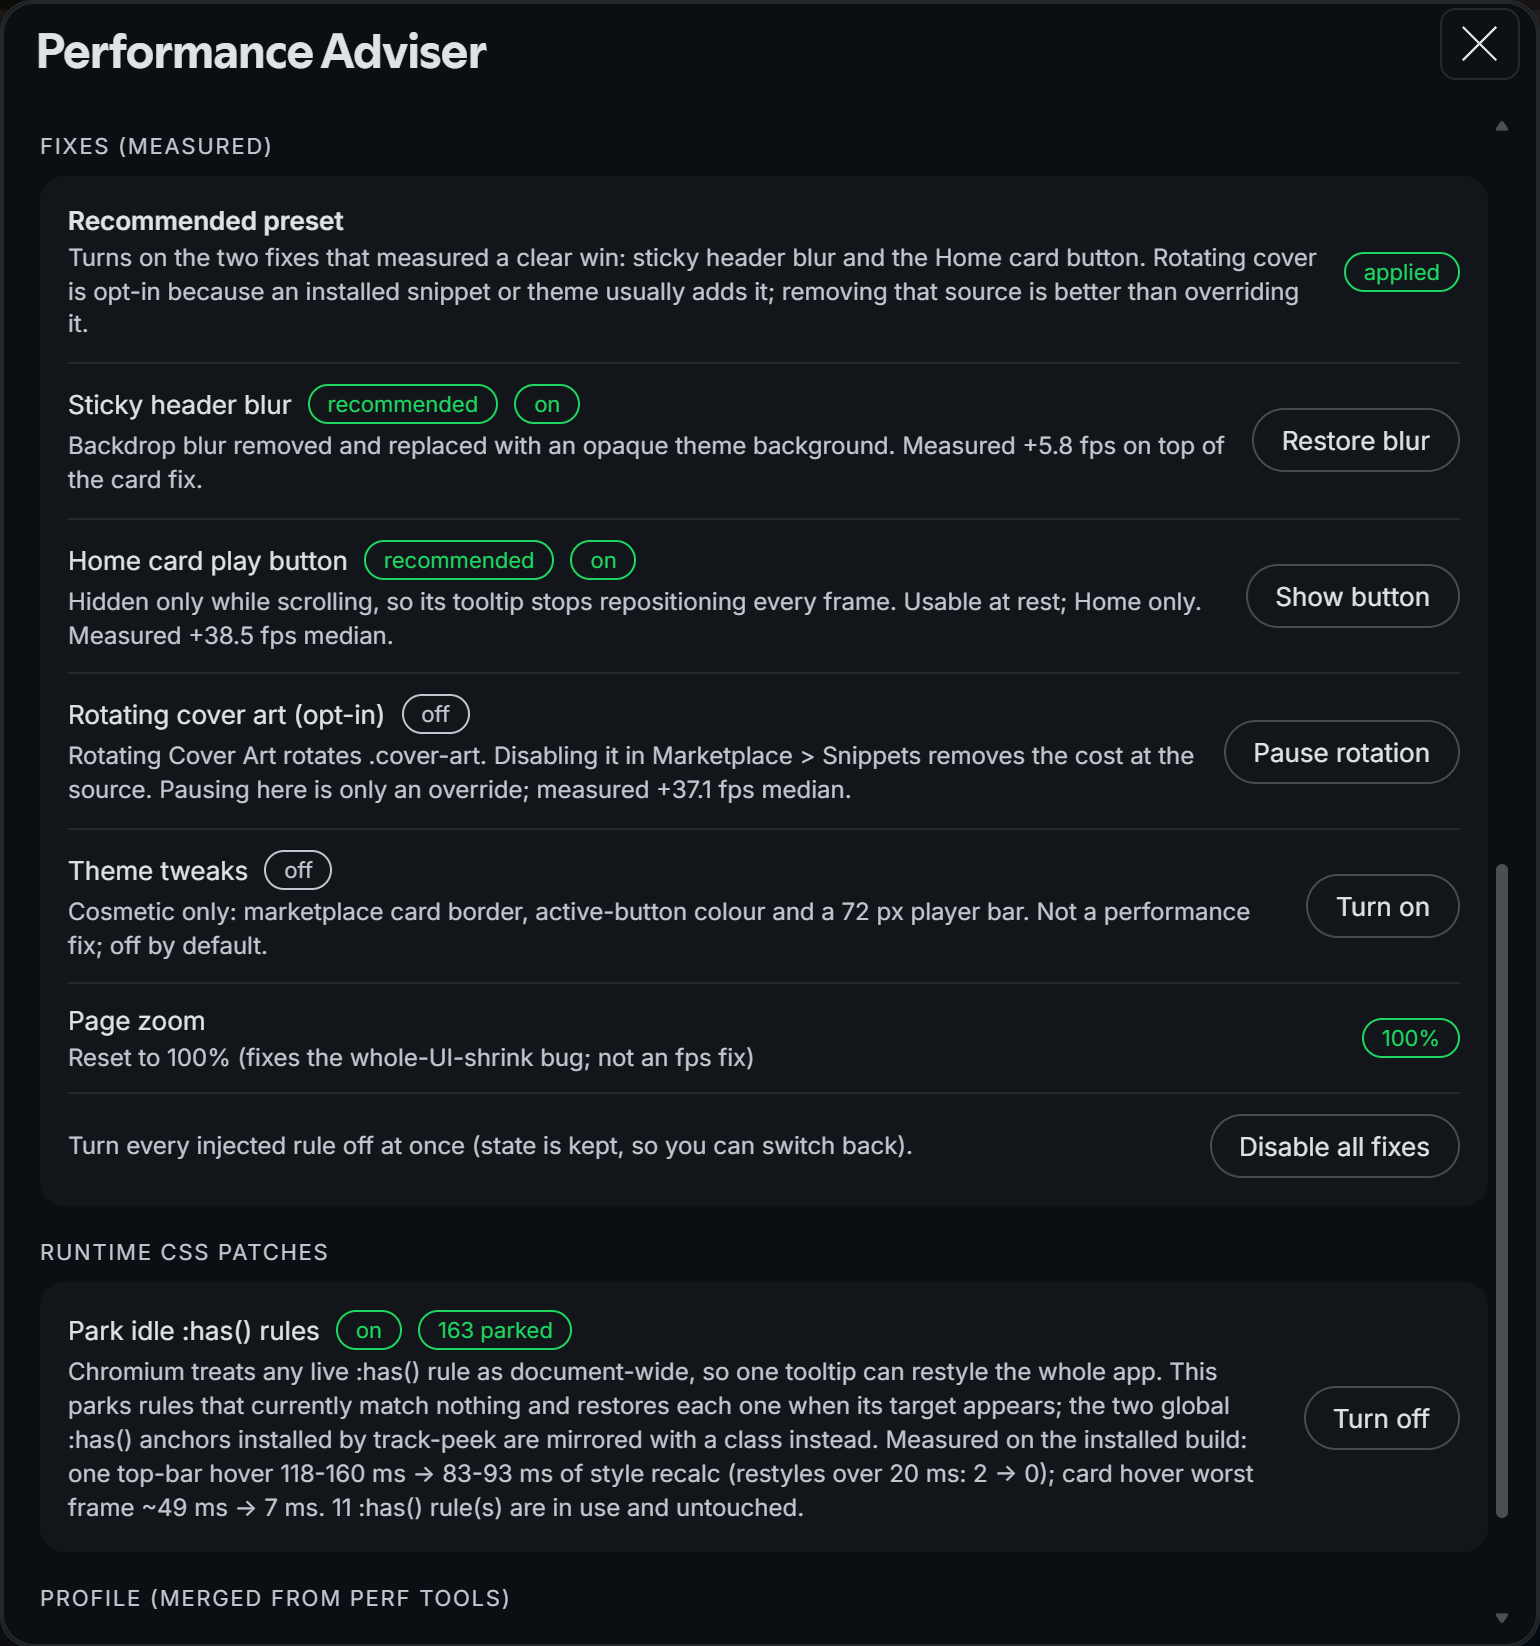
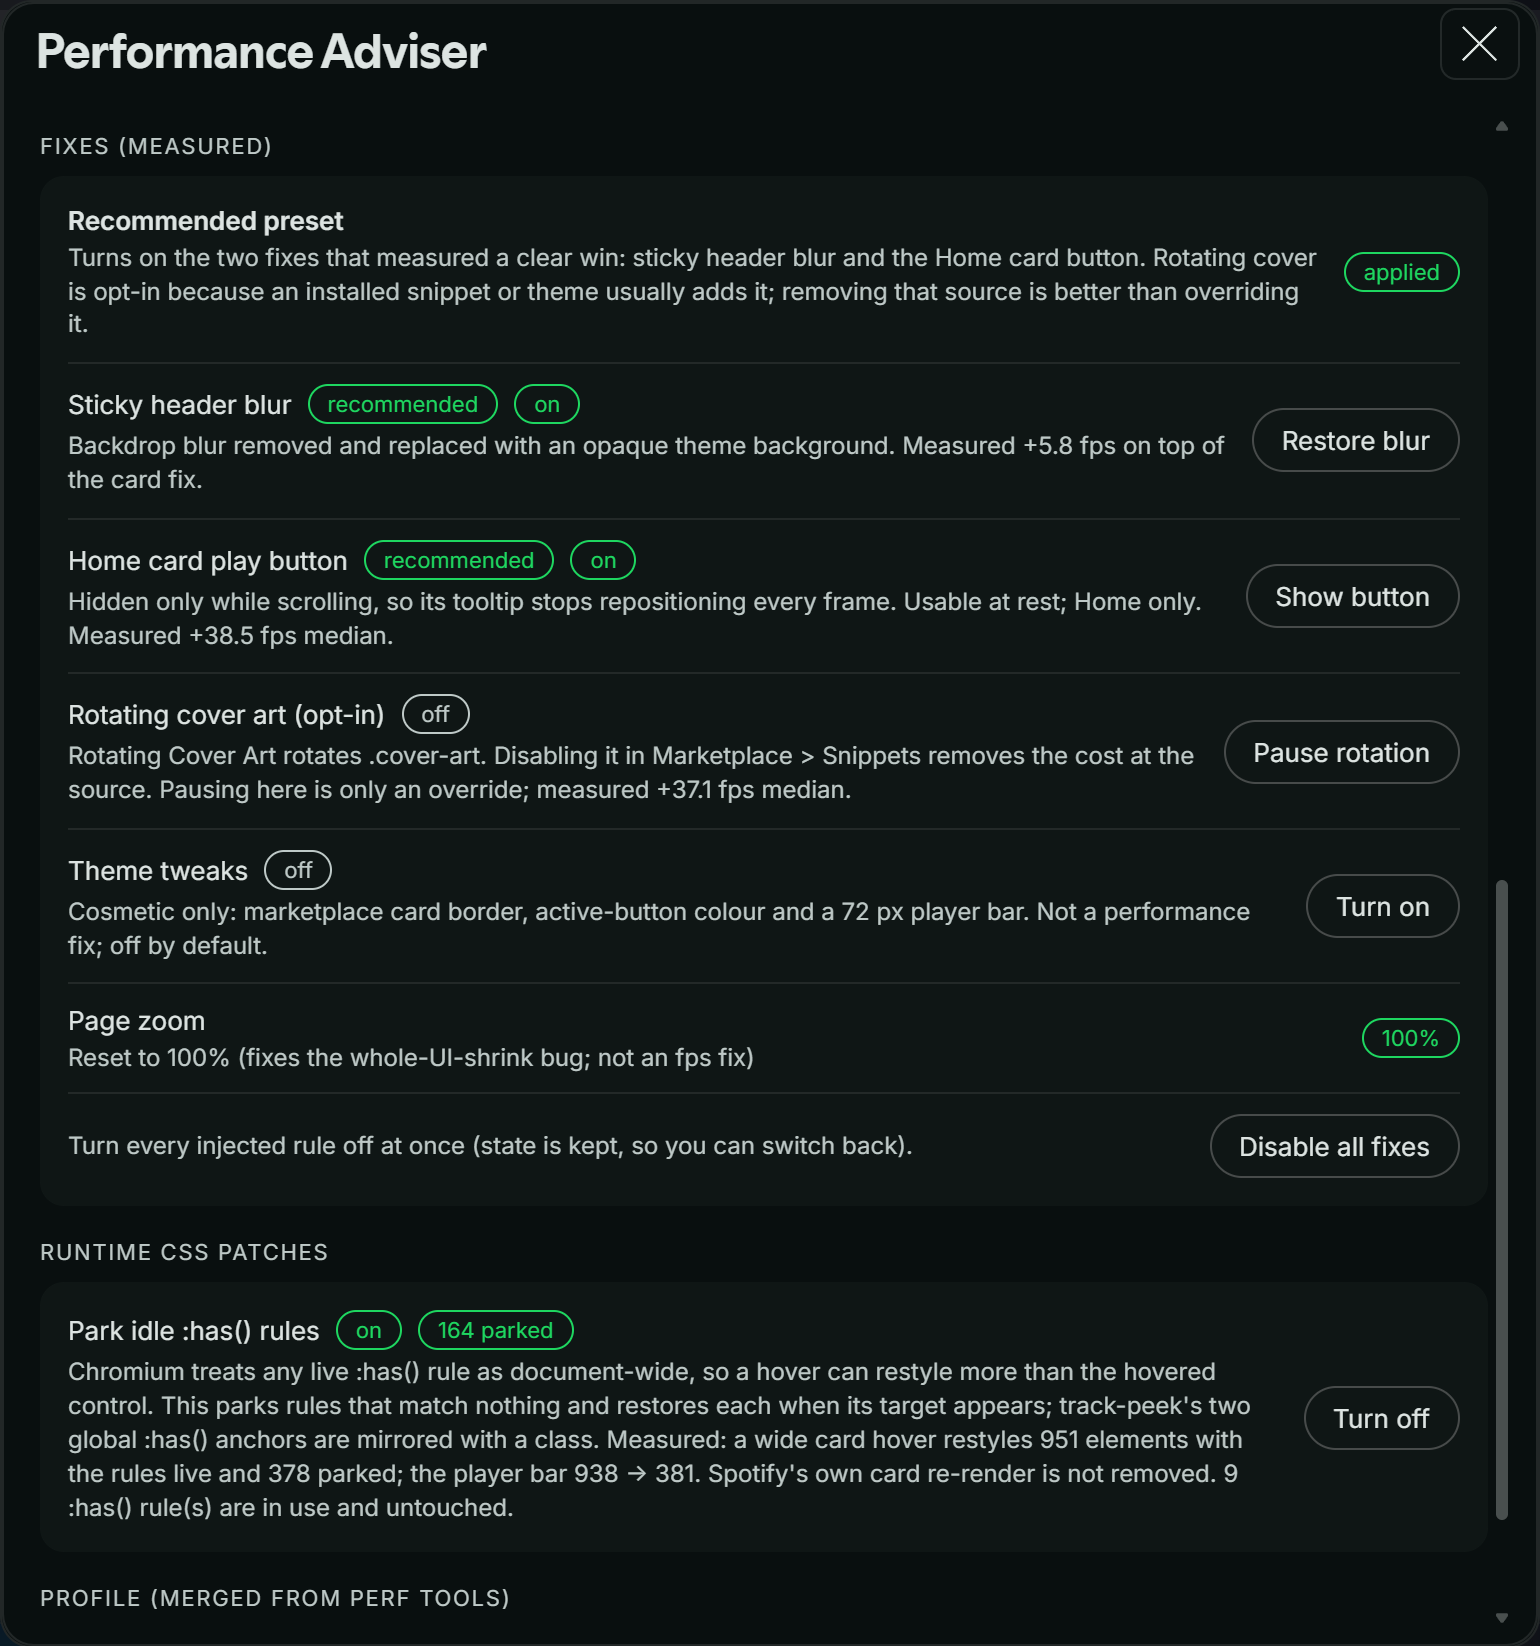
Correct the panel hover copy and refresh the preview

Changed region(s): [[0.0312, 0.8056, 0.8104, 0.9295]]

diff --git a/perf-adviser.js b/perf-adviser.js
@@ -12,10 +12,11 @@
 //   - one optional cosmetic bundle (marketplace card border, active-button
 //     colour, 72 px player bar) - not a performance fix, off by default
 //   - runtime CSS patches: Chromium treats every live :has() rule as a
-//     document-wide invalidation source, so one tooltip opening can restyle
-//     thousands of elements. The patch engine mirrors the two global :has()
-//     anchors installed by track-peek and parks :has() rules that currently
-//     match nothing, restoring each one as soon as its target appears.
+//     document-wide invalidation source, so a hover can restyle more of the
+//     page than the control under the cursor. The patch engine mirrors the two
+//     global :has() anchors installed by track-peek and parks :has() rules that
+//     currently match nothing, restoring each one as soon as its target appears.
+//     It narrows that work but cannot remove Spotify's own card re-render.
 //   - scans the live environment generically: installed Marketplace
 //     extensions/snippets/theme, every CSS source (rule counts, :has(), blur,
 //     infinite animations), running animations and their source, header blur,
@@ -249,7 +250,8 @@
 
   // ------------------------------------------------------- runtime CSS patches
   // Chromium's :has() invalidation is document-wide: while any live :has() rule
-  // exists, opening one tooltip can restyle thousands of elements. Two patches:
+  // exists, a hover can restyle more of the page than the hovered control. Two
+  // patches:
   //
   //   1. track-peek's stylesheet starts selectors with :has(), so they can
   //      match any element in the document. Mirror those conditions with
@@ -258,11 +260,11 @@
   //      (selector replaced with an inert one). It is restored as soon as
   //      something it targets appears. Rules that are in use are never touched.
   //
-  // Measured on the installed build (3 rounds): one top-bar hover costs
-  // 118-160 ms of style recalc over ~1,050-1,100 elements -> 83-93 ms over ~450
-  // (median 134 -> 90); restyles over 20 ms: 2 -> 0. A 4 s icon sweep:
-  // 563-649 ms and 9-10 big restyles -> 367-421 ms and 0. Card hover worst
-  // frame hit ~49 ms in 1 of 3 rounds without the patch; 7 ms in all 3 with it.
+  // Measured on the installed build (3 rounds, pointer parked outside the
+  // target): a wide card hover restyles 951 elements -> 378 with the patch; the
+  // player bar 938 -> 381; a top-bar icon is 7 either way. The card still runs
+  // one ~50 ms React task and a ~40 ms layout pass with the patch on. That is
+  // Spotify's own re-render, not :has() and not this extension.
   const PARK_PREFIX = "perf-adviser-parked-";
   const PEEK_WRAP = "perf-adviser-peek-wrap";
   const PEEK_ANCHOR = "perf-adviser-peek-anchor";
@@ -1469,9 +1471,9 @@
     if (!s.runtime || (s.runtime.active === false && hasRules >= 10)) {
       recs.push({
         severity: "medium",
-        title: "Idle :has() CSS rules make every hover restyle the app",
+        title: "Idle :has() CSS rules widen card and player hovers",
         body: "Chromium treats any live :has() rule as document-wide, even one that matches nothing. " + hasRules +
-          " :has() selectors are loaded; without the runtime patch, one top-bar tooltip costs 118-160 ms of style recalculation across ~1,050 elements and up to a ~49 ms frame.",
+          " :has() selectors are loaded; with them live, hovering a wide Home card restyles 951 elements instead of 378. Parking the idle ones cuts that work, but Spotify's own card re-render still costs a frame.",
         action: "Turn on 'Runtime CSS patches' below. It only parks rules that match nothing and restores each one when its target appears.",
       });
     }
@@ -1852,11 +1854,11 @@
     if (rt.mirrored) rtTitle.appendChild(pill(rt.mirrored + " mirrored", C.blue));
     rtText.appendChild(rtTitle);
     rtText.appendChild(h("div", `font-size:12px;color:${C.sub};line-height:1.4;`,
-      "Chromium treats any live :has() rule as document-wide, so one tooltip can restyle the whole app. " +
-      "This parks rules that currently match nothing and restores each one when its target appears; " +
-      "the two global :has() anchors installed by track-peek are mirrored with a class instead. " +
-      "Measured on the installed build: one top-bar hover 118-160 ms -> 83-93 ms of style recalc " +
-      "(restyles over 20 ms: 2 -> 0); card hover worst frame ~49 ms -> 7 ms. " +
+      "Chromium treats any live :has() rule as document-wide, so a hover can restyle more than the hovered control. " +
+      "This parks rules that match nothing and restores each when its target appears; " +
+      "track-peek's two global :has() anchors are mirrored with a class. " +
+      "Measured: a wide card hover restyles 951 elements with the rules live and 378 parked; the player bar 938 -> 381. " +
+      "Spotify's own card re-render is not removed. " +
       (rt.live ? rt.live + " :has() rule(s) are in use and untouched." : "")));
     rtRow.appendChild(rtText);
     rtRow.appendChild(btn(rt.active ? "Turn off" : "Turn on", () => {
